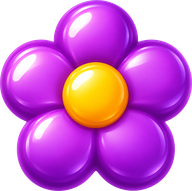
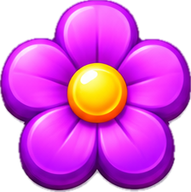
match3 2.46.0: unified art set from one owner generation (tools/sheetcut.py)
Claude-Session: https://claude.ai/code/session_01XZnRVWMBNfnFDLL39n42Z1

diff --git a/match3/tools/sheetcut.py b/match3/tools/sheetcut.py
@@ -1,87 +1,69 @@
 #!/usr/bin/env python3
-"""Нарезка листа UI-элементов на зелёном фоне на отдельные PNG.
+"""Единый набор графики (одна генерация владельца, docs/games/match3/references/art_sheet_v1.webp, сетка 5×4 на белом).
 
-python3 tools/sheetcut.py SHEET name1,name2,... [--out assets/art] [--min 2000]
-
-Элементы находятся как связные куски (зелёный фон вырезается), упорядочиваются по рядам
-(сверху вниз), в ряду — слева направо, и сохраняются под именами из списка (пропуск — «-»).
+python3 tools/sheetcut.py SHEET → assets/art/<имя>.png для каждого предмета (имена — NAMES по рядам).
+Фон убирается заливкой от краёв по «почти белому», предметы в клетке сетки склеиваются (искра у фитиля и т. п.),
+края сглаживаются. Фишки и бонусы — большая сторона 192 px, препятствия и плитки — 160 px.
+После: python3 tools/gem_atlas.py (атлас фишек).
 """
-import argparse
 import os
+import sys
 
 import cv2
 import numpy as np
 from PIL import Image
+from scipy import ndimage as ndi
 
 ROOT = os.path.dirname(os.path.dirname(os.path.abspath(__file__)))
-
-
-def key(a: np.ndarray) -> np.ndarray:
-    # цвет фона — медиана по краям листа; ключ по расстоянию до него (тёмно-зелёные кнопки остаются)
-    edge_px = np.concatenate([a[0], a[-1], a[:, 0], a[:, -1]])
-    bg = np.median(edge_px, axis=0)
-    d = np.sqrt(((a - bg) ** 2).sum(axis=2))
-    alpha = np.clip((d - 30.0) / (75.0 - 30.0), 0.0, 1.0)
-    # фон — только зелёное, связанное с краем листа: зелёные кнопки внутри элементов не трогаем
-    bgm = (alpha < 0.5).astype(np.uint8)
-    n, lab = cv2.connectedComponents(bgm, connectivity=4)
-    edge = set(np.unique(np.concatenate([lab[0], lab[-1], lab[:, 0], lab[:, -1]]))) - {0}
-    outside = np.isin(lab, list(edge))
-    # мягкий край оставляем только у внешнего фона
-    near = cv2.dilate(outside.astype(np.uint8), np.ones((5, 5), np.uint8)).astype(bool)
-    return np.where(near, alpha, 1.0) * np.where(outside, 0.0, 1.0) + np.where(outside, alpha * 0, 0)
+ART = os.path.join(ROOT, "assets", "art")
+NAMES = [
+    ["gem_0", "gem_1", "gem_2", "gem_3", "gem_4"],
+    ["gem_5", "rocket", "bomb", "propeller", "orb"],
+    ["ob_crate_0", "ob_crate_1", "ob_crate_2", "ob_pot_0", "ob_pot_1"],
+    ["ob_vines", "ob_tile_ice", "ob_tile_grass", "lv_tile_a", "lv_tile_b"],
+]
+BIG = {"gem_0", "gem_1", "gem_2", "gem_3", "gem_4", "gem_5", "rocket", "bomb", "propeller", "orb"}
 
 
 def main() -> None:
-    ap = argparse.ArgumentParser()
-    ap.add_argument("sheet")
-    ap.add_argument("names")
-    ap.add_argument("--out", default="assets/art")
-    ap.add_argument("--min", type=int, default=2000)
-    ap.add_argument("--grow", type=int, default=9)
-    o = ap.parse_args()
-    a = np.asarray(Image.open(o.sheet).convert("RGB")).astype(np.float32)
-    alpha = key(a)
-    m = (alpha > 0.5).astype(np.uint8)
-    m = cv2.dilate(m, np.ones((o.grow, o.grow), np.uint8))  # склеить листики и ленты с элементом
-    n, lab_d, st, _ = cv2.connectedComponentsWithStats(m, 8)
-    boxes = [tuple(st[i, :4]) + (i,) for i in range(1, n) if st[i, cv2.CC_STAT_AREA] >= o.min]
-    # ряды: группируем по центру по вертикали
-    boxes.sort(key=lambda b: b[1] + b[3] / 2)
-    rows, cur = [], []
-    for b in boxes:
-        # новый ряд — если элемент начинается ниже середины всех элементов текущего ряда
-        if cur and b[1] > max(c[1] + c[3] * 0.6 for c in cur):
-            rows.append(cur)
-            cur = []
-        cur.append(b)
-    if cur:
-        rows.append(cur)
-    ordered = [b for r in rows for b in sorted(r, key=lambda b: b[0])]
-    names = o.names.split(",")
-    # убираем зелёный отсвет на краях
-    r, g, bch = a[..., 0], a[..., 1], a[..., 2]
-    g2 = np.where(alpha < 0.99, np.minimum(g, np.maximum(r, bch) + 10.0), g)
-    rgba = np.dstack([r, g2, bch, alpha * 255]).clip(0, 255).astype(np.uint8)
-    out = os.path.join(ROOT, o.out)
-    idx = [b[4] for b in ordered]
-    for i, (x, y, w, h, _) in enumerate(ordered):
-        nm = names[i] if i < len(names) else f"_extra{i}"
-        if nm == "-":
+    im = np.asarray(Image.open(sys.argv[1]).convert("RGB")).astype(np.int16)
+    H, W = im.shape[:2]
+    # фон: почти белый и связанный с краем картинки
+    white = (np.abs(im - 255).max(axis=2) < 40).astype(np.uint8)
+    lab, n = ndi.label(white)
+    border = set(np.unique(np.concatenate([lab[0], lab[-1], lab[:, 0], lab[:, -1]]))) - {0}
+    bg = np.isin(lab, list(border))
+    fg = ~bg
+    fg = ndi.binary_opening(fg, iterations=1)
+    lab2, n2 = ndi.label(fg)
+    sizes = ndi.sum(fg, lab2, range(1, n2 + 1))
+    rows, cols = len(NAMES), len(NAMES[0])
+    groups = {}
+    for i, s in enumerate(sizes, start=1):
+        if s < 60:
             continue
-        # рамка была расширена дилатацией — сужаем по реальной прозрачности
-        sub = alpha[y:y + h, x:x + w]
-        ys, xs = np.where(sub > 0.1)
-        y0, y1, x0, x1 = y + ys.min(), y + ys.max() + 1, x + xs.min(), x + xs.max() + 1
-        p = 2
-        crop = rgba[max(0, y0 - p):y1 + p, max(0, x0 - p):x1 + p].copy()
-        # чужие куски, попавшие в рамку, убираем
-        lm = (lab_d[max(0, y0 - p):y1 + p, max(0, x0 - p):x1 + p] != idx[i])
-        crop[lm, 3] = 0
-        Image.fromarray(crop, "RGBA").save(os.path.join(out, nm + ".png"), optimize=True)
-        print(f"{nm}: {w}x{h} at {x},{y}")
-    if len(ordered) != len(names):
-        print(f"ВНИМАНИЕ: найдено {len(ordered)}, имён {len(names)}")
+        ys, xs = np.where(lab2 == i)
+        r = min(rows - 1, int(ys.mean() / (H / rows)))
+        c = min(cols - 1, int(xs.mean() / (W / cols)))
+        groups.setdefault((r, c), []).append(i)
+    rgb = im.astype(np.uint8)
+    for (r, c), ids in sorted(groups.items()):
+        m = np.isin(lab2, ids)
+        m = ndi.binary_fill_holes(m)
+        # срезаем 3 px края: там светлая кайма от белого фона
+        m = ndi.binary_erosion(m, iterations=3)
+        ys, xs = np.where(m)
+        y0, y1, x0, x1 = ys.min(), ys.max() + 1, xs.min(), xs.max() + 1
+        a = cv2.GaussianBlur(m.astype(np.float32) * 255, (0, 0), 0.8)
+        # светлая кайма от белого фона на краю: слегка затемняем полупрозрачные пиксели
+        crop = np.dstack([rgb[y0:y1, x0:x1], a[y0:y1, x0:x1].clip(0, 255).astype(np.uint8)])
+        img = Image.fromarray(crop, "RGBA")
+        name = NAMES[r][c]
+        side = 192 if name in BIG else 160
+        k = side / max(img.size)
+        img = img.resize((max(1, round(img.width * k)), max(1, round(img.height * k))), Image.LANCZOS)
+        img.save(os.path.join(ART, name + ".png"))
+        print(name, img.size)
 
 
 if __name__ == "__main__":

diff --git a/docs/DEVELOPMENT_STATUS.md b/docs/DEVELOPMENT_STATUS.md
@@ -80,3 +80,4 @@
 - v2.43.2 2026-11-17: обводка поля цельная, без стыков (замечание владельца): вместо отрезков по сторонам клеток — слои «расширенной формы поля» (каждая клетка — скруглённый прямоугольник, расширенный наружу, соседние сливаются) под клетками: тень, тёмная кайма, золото, блик, золото, тонкая тёмная линия у клеток (~8 px).
 - v2.44.0 2026-11-17: анимации фишек (по покадровой записи --write-movie демо эффектов): исчезновение фишки — вспышка, раздувание и быстрое сжатие в точку с лёгким поворотом (раньше сплющивалась «ребром» в полоску); приземление мягче (было сплющивание до «блина»); новые фишки падают сразу (пустота после взрыва висела ~0.25 с, теперь ~0.15); взрыв бомбы меньше и вдвое короче (жёлтое облако закрывало пол-поля); след ракеты — тёплые искры вместо серого дыма.
 - v2.45.0 2026-11-17: «вертикальный срез» (решение владельца: игра «не красивая, не приятная, скучная» — доводим до качества первые 15 уровней, потом расширяем). Шаг 1 — уровни 2–15 ручные (Levels.HAND, карты 8×10 с легендой; цели по препятствиям считаются по карте): каждый учит одному — ракеты/бабочки (2–3), стена ящиков (4), рамка ящиков (5), газон (6), передышка (7), горшки (8), пирамида 2-слойных ящиков (9), ящики+газон (10), лианы (11), лианы крестом с ящиками (12), передышка (13), лёд (14), «Сложный» ящики+толстый лёд (15). Подобраны ботом --balance (по 5 попыток): передышки 100 %, обучение 60–100 %, 15-й ≈ 40 %. Дальше: единый набор графики одной генерацией, затем звук и отдача хода.
+- v2.46.0 2026-11-17: «вертикальный срез», шаг 2 — единый набор графики одной генерацией владельца (references/art_sheet_v1.webp, сетка 5×4): 6 фишек, ракета, бомба, бабочка, шар, ящик в 3 состояниях, горшок в 2, лианы, лёд, газон, 2 плитки поля. Нарезка — match3/tools/sheetcut.py (фон по белому от краёв, срез 3 px каймы), затем tools/gem_atlas.py.
